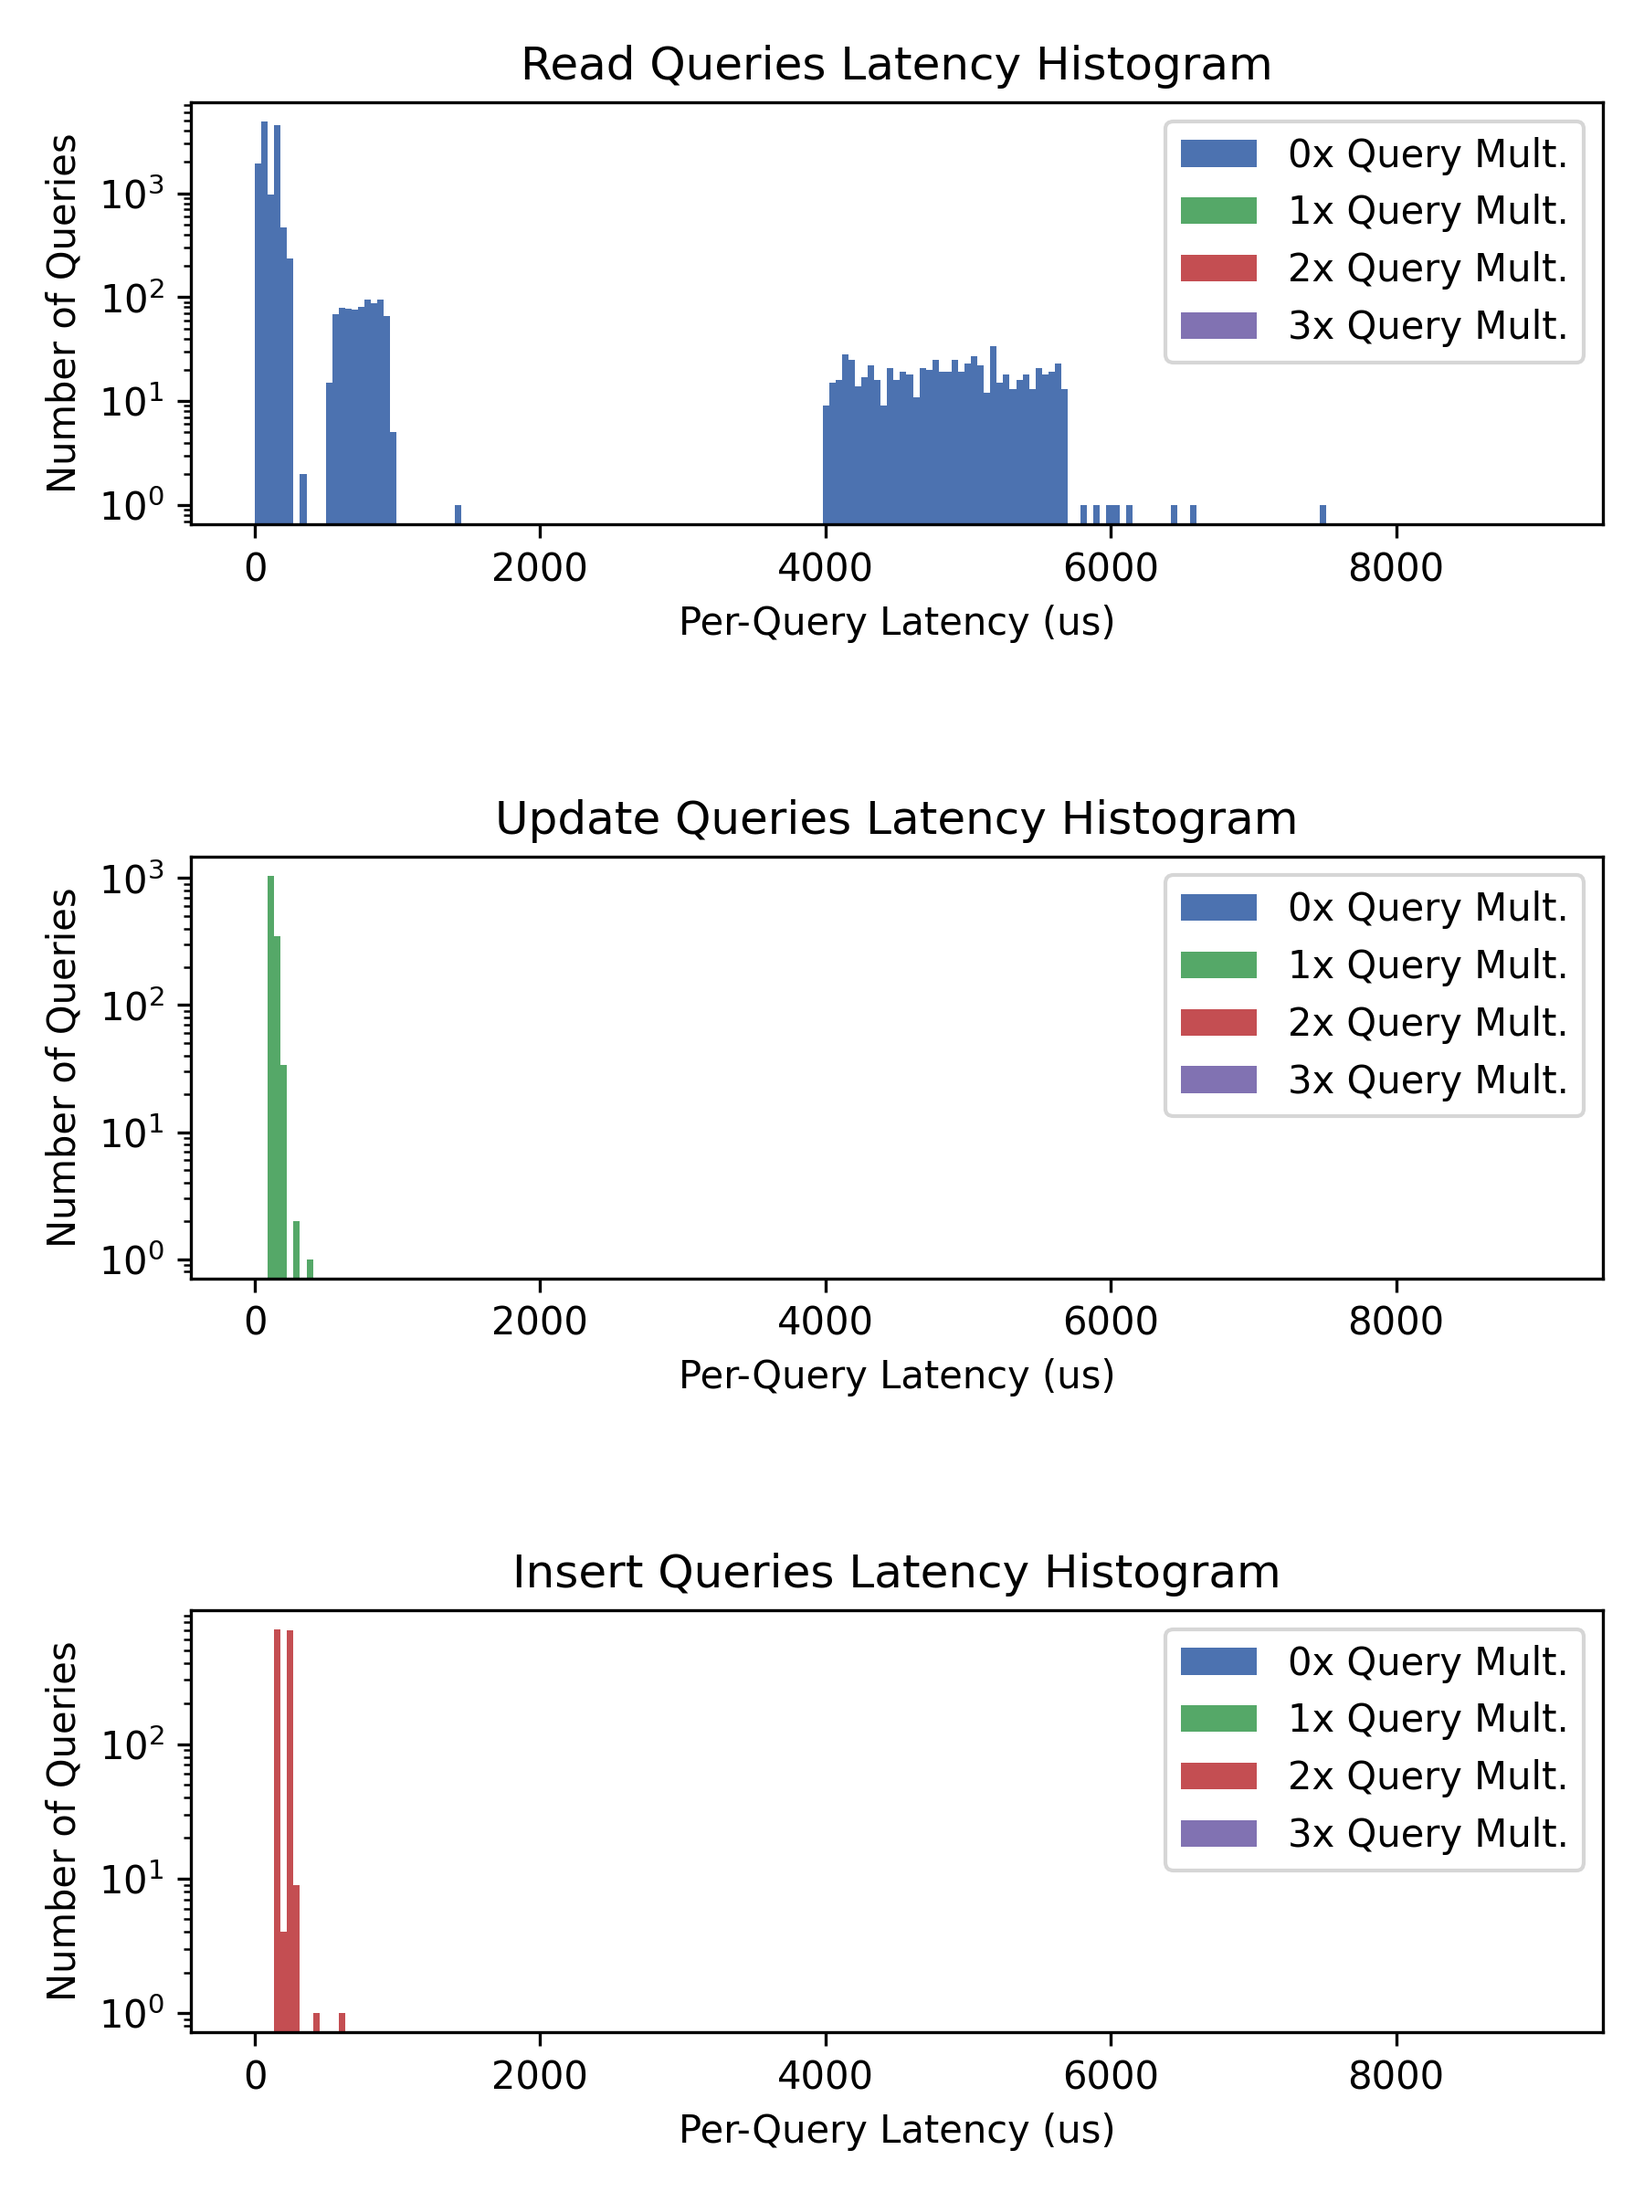
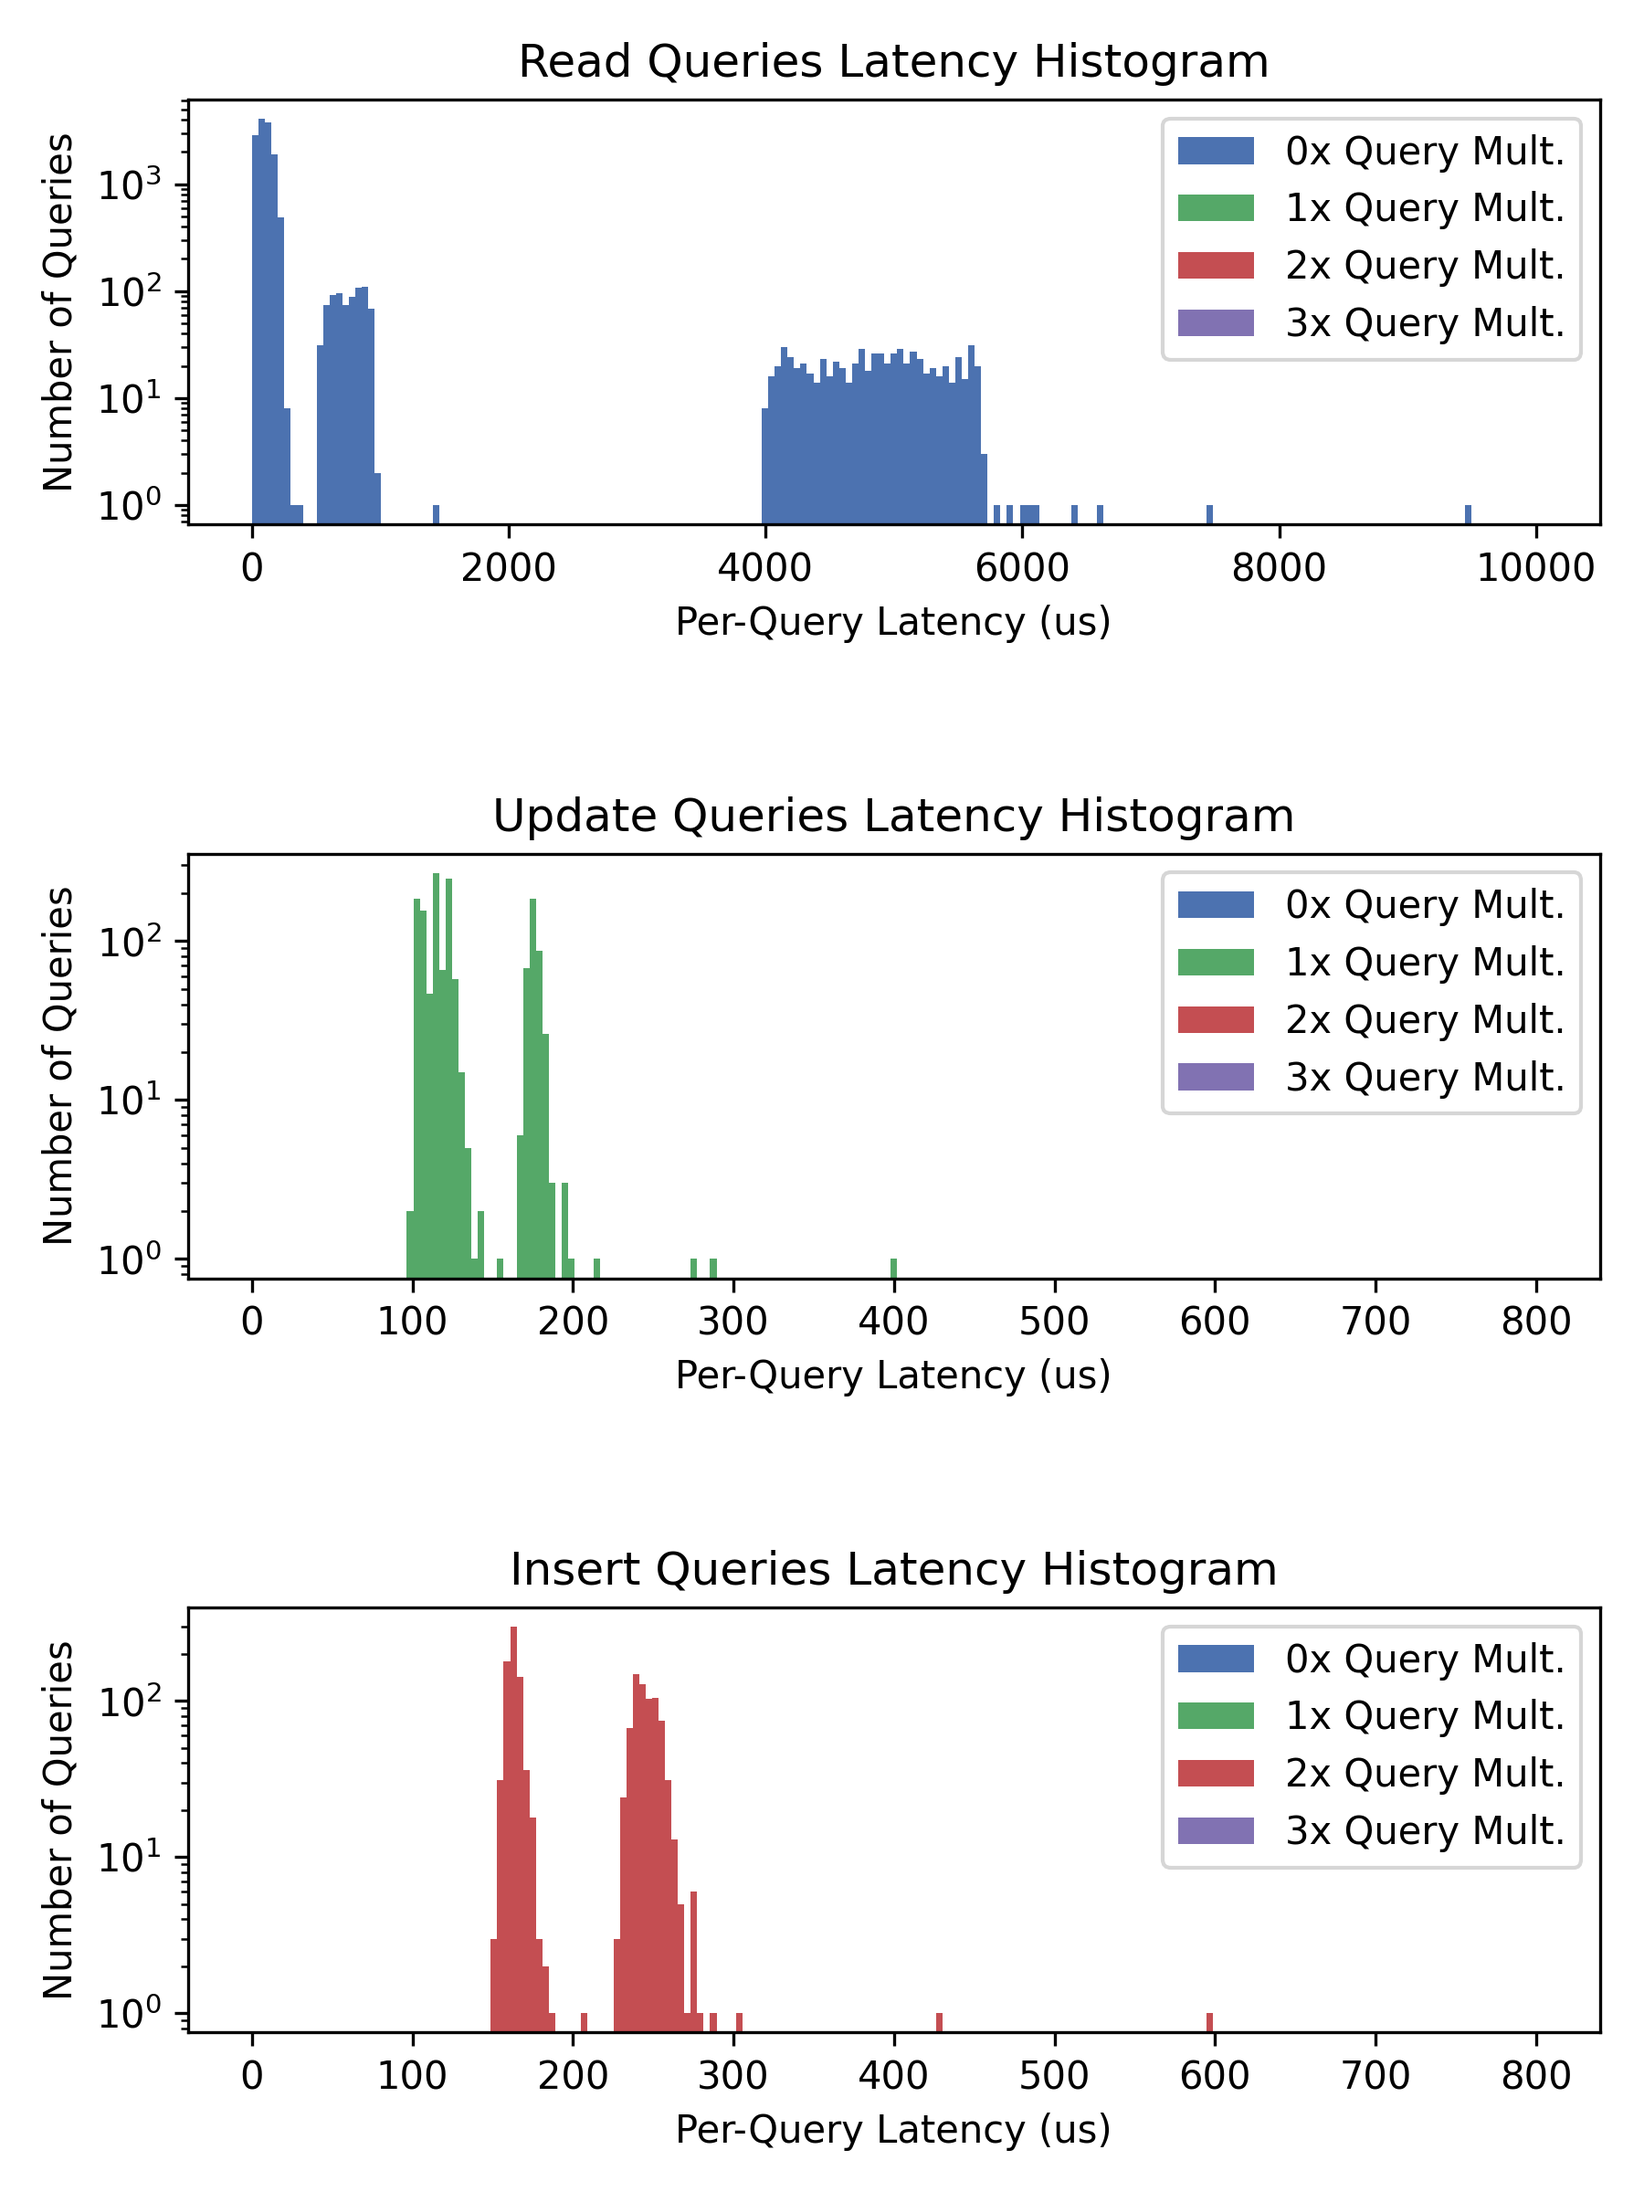
fix order by lazy sort

diff --git a/decor/src/decor-mem/src/select.rs b/decor/src/decor-mem/src/select.rs
@@ -9,7 +9,7 @@ use std::time;
 use sql_parser::ast::*;
 use std::cell::RefCell;
 use std::rc::Rc;
-use lazysort::{LazySortIteratorBy, SortedBy};
+use lazysort::{SortedBy};
 
 /*
  * return table name and optionally column if not wildcard
@@ -942,15 +942,15 @@ pub fn get_query_results(views: &HashMap<String, Rc<RefCell<View>>>, q: &Query) 
                             }
                         } else {
                             res
-                        }
-                    }) {
+                        }}) 
+                    {
                         if rptrs_vec.len() < limit {
                             rptrs_vec.push(rptr.0.clone());
                         }
                     }
                 }
                 Some(true) | None => {
-                    rptrs_iter = rptrs.iter().sorted_by(|r1, r2| {
+                    for rptr in rptrs.iter().sorted_by(|r1, r2| {
                         let res = helpers::parser_vals_cmp(&r1.0.borrow()[ci1], &r2.0.borrow()[ci1]);
                         if res == Ordering::Equal {
                             match orderby2.asc {
@@ -959,31 +959,37 @@ pub fn get_query_results(views: &HashMap<String, Rc<RefCell<View>>>, q: &Query) 
                             }
                         } else {
                             res
+                        }}) 
+                    {
+                        if rptrs_vec.len() < limit {
+                            rptrs_vec.push(rptr.0.clone());
                         }
-                    });
+                    }
                 }
             }
         } else {
             match orderby1.asc {
                 Some(false) => {
-                    rptrs_iter = rptrs.iter().sorted_by(|r1, r2| {
-                        helpers::parser_vals_cmp(&r1.0.borrow()[ci1], &r2.0.borrow()[ci1])
-                    });
+                    for rptr in rptrs.iter().sorted_by(|r1, r2| {
+                        helpers::parser_vals_cmp(&r1.0.borrow()[ci1], &r2.0.borrow()[ci1])})
+                    {
+                        if rptrs_vec.len() < limit {
+                            rptrs_vec.push(rptr.0.clone());
+                        }
+                    }
                     debug!("order by desc! {:?}", rptrs);
                 }
                 Some(true) | None => {
                     debug!("before sort: order by asc! {:?}", rptrs);
-                    rptrs_iter = rptrs.iter().sorted_by(|r1, r2| {
-                        helpers::parser_vals_cmp(&r1.0.borrow()[ci1], &r2.0.borrow()[ci1])
-                    });
+                    for rptr in rptrs.iter().sorted_by(|r1, r2| {
+                        helpers::parser_vals_cmp(&r1.0.borrow()[ci1], &r2.0.borrow()[ci1])})
+                    {
+                        if rptrs_vec.len() < limit {
+                            rptrs_vec.push(rptr.0.clone());
+                        }
+                    }
                     debug!("order by asc! {:?}", rptrs);
                 }
-            }
-        }
-
-        for rptr in rptrs_iter {
-            if rptrs_vec.len() < limit {
-                rptrs_vec.push(rptr.0.clone());
             }
         }
     }

diff --git a/decor/benchmarks/plot.py b/decor/benchmarks/plot.py
@@ -7,9 +7,9 @@ plt.style.use('seaborn-deep')
 tests = ["decor", "shim_only", "shim_parse"]
 names = ["Read", "Update", "Insert", "Other"]
 ybounds = [15000, 2000, 1400, 600]
-bins = [np.linspace(0, 9000, 200),
-    np.linspace(0, 9000, 200),
-    np.linspace(0, 9000, 200),
+bins = [np.linspace(0, 10000, 200),
+    np.linspace(0, 800, 200),
+    np.linspace(0, 800, 200),
     np.linspace(0, 600, 200),
 ]
 

diff --git a/decor/src/decor-mem/src/views.rs b/decor/src/decor-mem/src/views.rs
@@ -337,7 +337,6 @@ impl View {
         let row = rptr.borrow();
         let old_val = row[col_index].to_string();
         let mut index_len = 0;
-        let pk = self.primary_index;
         warn!("{}: updating {:?} from {:?}", self.columns[col_index].fullname, col_val, old_val);
 
         // don't actually do anything if we're just updating to the same value!
